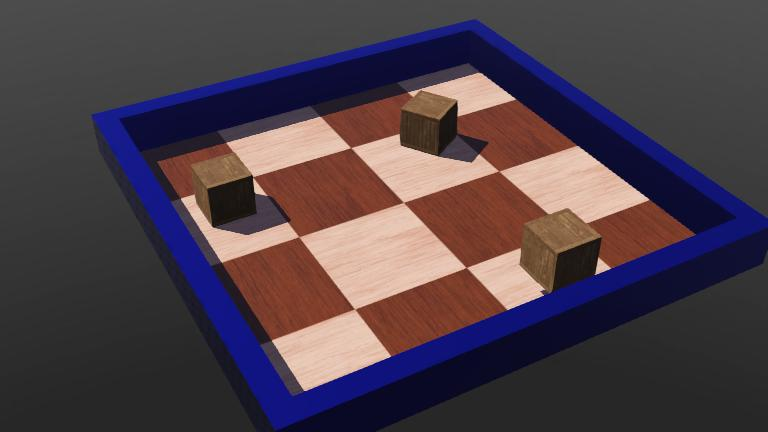
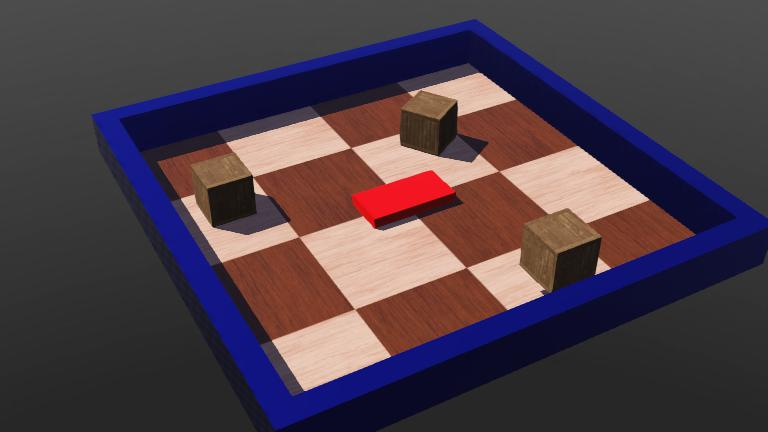
tutorial 6 robot frame en wielen toevoegen

Changed region(s): [[0.4375, 0.3912, 0.625, 0.5417]]

diff --git a/readme.md b/readme.md
@@ -1,3 +1,11 @@
 Repository voor Webots projecten bij OLOD Robot Design
 
 2024 - 2025 Electronica-ICT, Cybersecurity & Cloud
+
+# Webots tutorials
+## Tutorial 6
+In deze tutorial ga jij je eerste robot bouwen vanaf nul. De robot zal bestaand uit een robotframe, 4 wielen en 2 afstandssensoren. Het resultaat zie je hieronder.
+![tutorial 6 robot](info/webots06_tutorial_4_wheels_robot.thumbnail.jpg)
+
+## Stap 2
+Voeg een robot node toe op het einde van de scene tree, welke vier **HingeJoint nodes** welke elk een **Solid node** hebben als **endPoint** (zie figuur hieronder). Voeg een **Shape node toe**, aan de Robot node, welke een **Box geometrie** bevat. Stel de kleur van de Shape in op **rood**. Gebruik deze Shape om het **boundingObject** veld te bepalen van de Robot node. Box afmetingen zijn `(0.2, 0.1, 0.05)`. Voeg een **Physics node** toe aan de Robot. De figuur toont alle nodes die samen de robot definiëren.  Enkel de directe children nodes van de root Robot node ontbreken nog.
